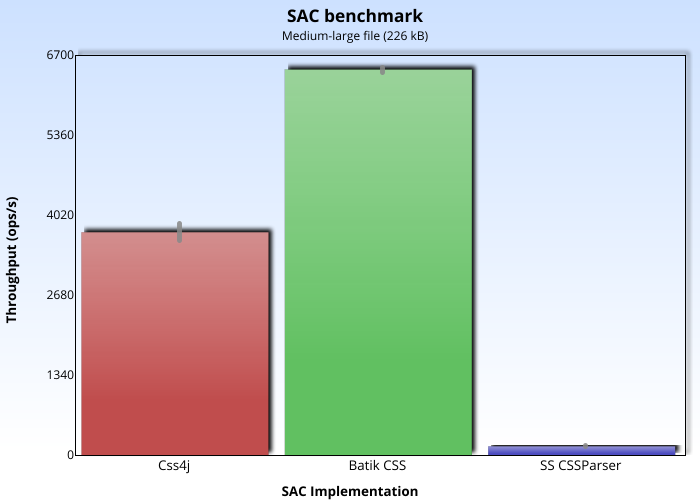
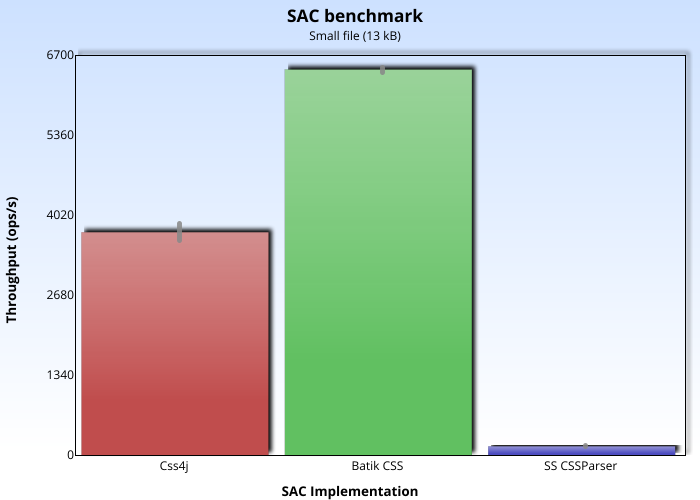
SAC benchmark: fix an error in the chart caption.

diff --git a/sac-mark.html b/sac-mark.html
@@ -148,36 +148,35 @@ text {
 <feOffset in="alpha_blur" dx="3" dy="-3" result="offset_alpha_blur"></feOffset>
 </filter>
 </defs>
-<style>
-text {
-  font-family: "Open Sans",Verdana,sans-serif;
+<style>text {
+    font-family: "Open Sans", Verdana, sans-serif;
 }
-#caption {
-  font-size: 13pt;
-  font-weight: 700;
+#sac-small-caption {
+    font-size: 13pt;
+    font-weight: 700;
 }
-#subcaption {
-  font-size: 9pt;
-  font-weight: 600;
+#sac-small-subcaption {
+    font-size: 9pt;
+    font-weight: 600;
 }
-#x-title,#y-title{
-  font-size: 10pt;
-  font-weight: 700;
+#sac-small-x-title,#sac-small-y-title {
+    font-size: 10pt;
+    font-weight: 700;
 }
-.itemlabel {
-  font-size: 10pt;
-  font-weight: 400;
+.sac-small-itemlabel {
+    font-size: 9pt;
+    font-weight: 400;
 }
-.scaleItem {
-  font-size: 9pt;
-  font-weight: 300;
+.sac-small-scaleItem {
+    font-size: 9pt;
+    font-weight: 300;
 }
 </style>
 <rect width="100%" height="100%" fill="url('#sac-small-background')"></rect>
 <rect width="610" height="400" x="75" y="55" stroke="#000000" fill="rgb(0,0,0)" fill-opacity="0" filter="url('#sac-small-projection')" clip-path="url('#sac-small-cut-scale-shadow')"></rect>
 <rect id="sac-small-chartbox" width="610" height="400" x="75" y="55" stroke-width="1" stroke="#000000" fill="rgb(0,0,0)" fill-opacity="0"></rect>
-<text id="caption" x="355" y="22" text-anchor="middle" fill="black">SAC benchmark</text>
-<text id="subcaption" x="355" y="40" text-anchor="middle" fill="black">Medium-large file (226 kB)</text>
+<text id="sac-small-caption" x="355" y="22" text-anchor="middle" fill="black">SAC benchmark</text>
+<text id="sac-small-subcaption" x="355" y="40" text-anchor="middle" fill="black">Small file (13 kB)</text>
 <rect width="187.0" height="222.7" x="81.5" y="232.3" stroke="#ffffff" stroke-opacity="0.4" filter="url('#sac-small-projection')"></rect>
 <rect id="sac-small-markSACParseStyleSheet" width="187.0" height="222.7" x="81.5" y="232.3" stroke="black" stroke-width="0.4" stroke-opacity="0.3" fill="#c04d4d"></rect>
 <rect width="187.0" height="222.7" x="81.5" y="232.3" fill="url('#sac-small-reflection')"></rect>
@@ -199,8 +198,8 @@ text {
 <text x="74" y="299" class="scaleitem" text-anchor="end">2680</text>
 <text x="74" y="379" class="scaleitem" text-anchor="end">1340</text>
 <text x="74" y="459" class="scaleitem" text-anchor="end">0</text>
-<text id="y-title" x="16" y="260" text-anchor="middle" fill="black" transform="rotate(270,16,260)">Throughput (ops/s)</text>
-<text id="x-title" x="350" y="496" text-anchor="middle" fill="black">SAC Implementation</text>
+<text id="sac-small-y-title" x="16" y="260" text-anchor="middle" fill="black" transform="rotate(270,16,260)">Throughput (ops/s)</text>
+<text id="sac-small-x-title" x="350" y="496" text-anchor="middle" fill="black">SAC Implementation</text>
 <image src="benchmark/sac-small.png" xlink:href=""></image></svg>
 <p>Numeric results (higher is better):</p>
 <table class="normaltbl carteitem">
